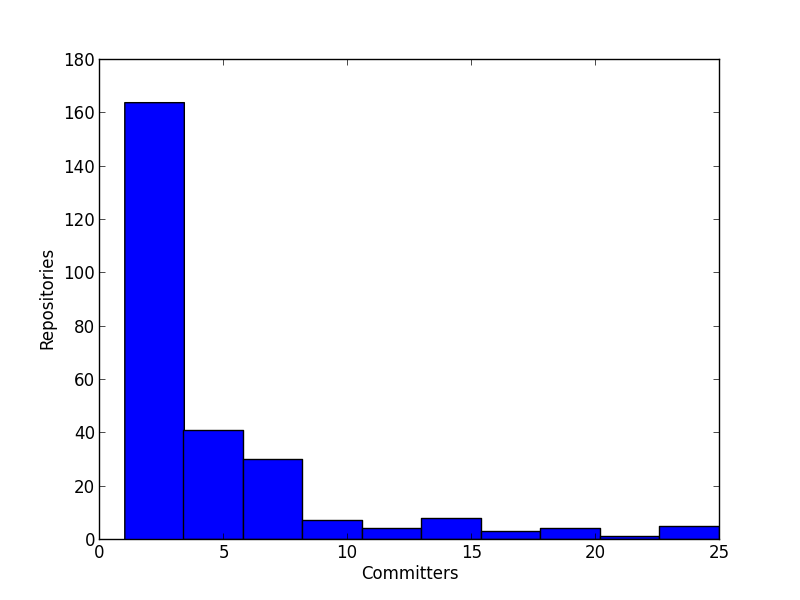
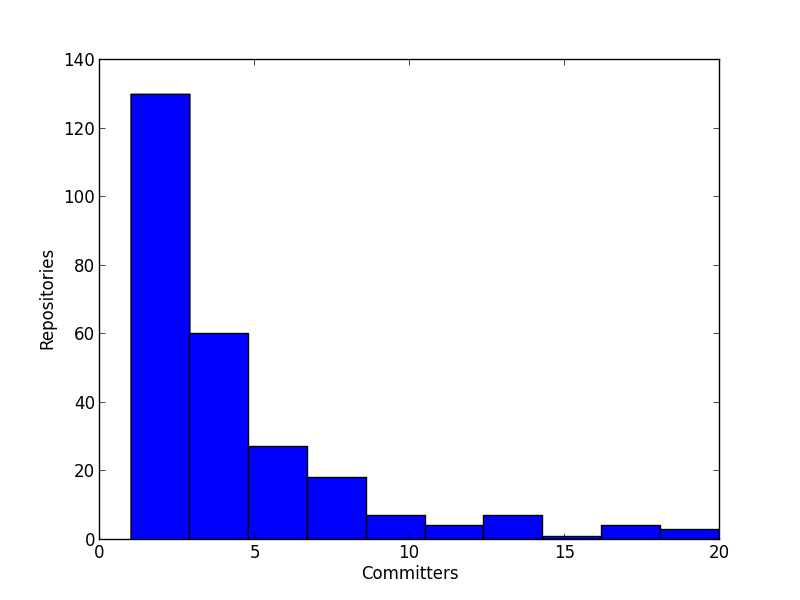
First run through proof-reading.

diff --git a/paper/main.tex b/paper/main.tex
@@ -7,6 +7,7 @@
 \usepackage{caption}
 \usepackage{url}
 \usepackage{amsmath}
+\usepackage{mathrsfs}
 %\setlength{\parskip}{\baselineskip}
 %\setlength{\parindent}{0pt}
 
@@ -40,27 +41,33 @@ Open Source Software (OSS) has fundamentally changed how we view the Software De
 
 A case study of the Apache Server project\cite{mockus2000case} shows that a dedicated community can produce software that rivals or exceeds commercial offerings. This study showed that even in the unstructured context of OSS, certain structures, hierarchies, and codes of conduct emerge. Contrast the Apache Server project to a successful project on GitHub. Although the spirit and intent may be the same, the tool set is drastically different. The intent of this work is to explore how GitHub facilitates this process, and also how it may be causing it to evolve.
 
-GitHub\footnote{https://github.com/} is a popular code hosting website that uses Git Source Code Management (SCM)\footnote{http://git-scm.com/}. Along with hosting software repositories, GitHub incorporates social aspects of development. GitHub users have community-visible profiles, and user actions can be tracked and followed by other community actions. This type of social integration of a user's identity and actions is unique to GitHub\cite{dabbish2012social}. 
+GitHub\footnote{https://github.com/} is a popular code hosting website that uses Git Source Code Management (SCM).\footnote{http://git-scm.com/} Along with hosting software repositories, GitHub incorporates social aspects of development. GitHub users have community-visible profiles, and user actions can be tracked and followed by other community actions. This type of social integration of a user's identity and actions is unique to GitHub\cite{dabbish2012social}. 
 
 Git itself, the SCM of GitHub, lends itself to the collaborative nature of GitHub by allowing for development to take place in a more distributed manner than previously available in other SCM systems\cite{spinellis2012git}.
-Git also allows for a variety of work flows\cite{chacon2009pro}. These workflows may be tailored to the individual needs of a project. The Linux Kernel, for example, uses a Dictator and Lieutenants Workflow\cite{platschekfloss}, which is hierarchical in nature. Other work flows may be more distributed, or resemble more traditional centralized SCM systems. Although work flow techniques aren't explicitly addressed in this work, it is important to note that work flow change may contribute to \textit{process change}.
+Git also allows for a variety of work flows\cite{chacon2009pro}. These work flows may be tailored to the individual needs of a project. The Linux Kernel, for example, uses a Dictator and Lieutenants Workflow\cite{platschekfloss}, which is hierarchical in nature. Other work flows may be more distributed, or resemble more traditional centralized SCM systems. Although work flow techniques aren't explicitly addressed in this work, it is important to note that work flow change may contribute to \textit{process change}.
 
 To better understand quantitatively the GitHub process, three hypotheses are introduced. The goal of these hypotheses is to bridge the gap between the more qualitative research of GitHub\cite{dabbish2012social,begel2013social} and the statistical analysis of data from a random sampling of GitHub projects.
 
-In addition, three supporting research questions are proposed. These questions will draw upon data from this work, but also reference interviews with GitHub staff to better represent how GitHub may be changing how OSS development is conducted. These qualitative observations, paired with the more qualitative data analysis, allows for a broad description of the way that GitHub is changing the Software Engineering landscape for OSS.
+In addition, three supporting research questions are proposed. These questions will draw upon data from this work, but also reference several case studies to better represent how GitHub may be changing how OSS development is conducted. These qualitative observations, paired with the more qualitative data analysis, allows for a broad description of the way that GitHub is changing the Software Engineering landscape for OSS.
 
 \subsection{Hypotheses}
 The following hypotheses are presented in an effort to better understand the GitHub development process by analyzing data from actual GitHub projects. Each hypothesis will be backed by previous research in an attempt to show concrete ways in which the GitHub process may be changing the OSS development process. Where possible, results from previous research on the Apache Server[mockus2000case] is compared, as this work closely aligns with Hypothesis 2 and 3.\\
 
 \noindent \textbf{Hypothesis 1: As the number of Watchers increase, the number of Repository Forks will increase.}\\
-In Open Source Software, a feeling of community belonging can be intrinsically motivating to developers\cite{lakhani2003hackers}. This feeling of belonging can be expressed passively, as a \emph{watch}, or actively, as a \emph{fork} of a repository. As \emph{watches} don't necessarily signal intent to contribute, a positive direction for an OSS project is to not only increase the number of \emph{watchers}, but also the number of \emph{forks}. As both signify a general general interest in the project, it is expected that there be some correlation between the two.\\
+In Open Source Software, a feeling of community belonging can be intrinsically motivating to developers\cite{lakhani2003hackers}. This feeling of belonging can be expressed passively, as a \emph{watch}, or actively, as a \emph{fork} of a repository. 
+
+In GitHub, a \emph{watch} is a user act of subscribing to changes in a repository. It is also referred to as a \emph{star}. A \emph{watch} allows users to receive status updates, such as when code has been committed. This is considered a \emph{passive} act, as it signifies involvement in the community, but no direct action to contribute.
+
+A \emph{fork} is the creation of a personal copy of a repository\cite{dabbish2012social}, from which they can change without impacting the original code source. A \emph{fork} is an \emph{active} action, as it signifies both involvement and intent to contribute. It should be noted, however, that it only signifies \emph{intent} -- a fork of a repository could be made and no other actions taken.
+
+As \emph{watches} don't necessarily signal intent to contribute, a positive direction for an OSS project is to not only increase the number of \emph{watchers}, but also the number of \emph{forks}. As both signify a general general interest in the project, it is expected that there be some correlation between the two.\\
 
 \noindent \textbf{Hypothesis 2: As the number Repository Forks increase, the Issue Resolution Time will decrease.}\\
 In OSS, a project \emph{fork} has at times carried negative connotations, and has even been referred to as a hazzard\cite{kogut2001open}. In the context of Git and GitHub, however, a \emph{fork} is a positive occurrence for a project, as it signifies greater project involvement. As Git allows for easy merging of \emph{forks}, code contributions in the form of defect fixes can be incorporated quickly. Because of this, it is expected that \emph{Issue Resolution Time} will decrease as the number of \emph{forks} increases.
 
-The Apache Project noted that a rapid response to problems can be obtained because OSS is not bound to release schedules in the same way commercial software is. ``Patches'' may be released at any time, by any member of the community\cite{mockus2000case}. ``Patches'' in the context of GitHub could be equated to Pull Requests.
+The Apache Project noted that a rapid response to problems can be obtained because OSS is not bound to release schedules in the same way commercial software is. ``Patches'' may be released at any time, by any member of the community\cite{mockus2000case}. ``Patches'' in the context of GitHub could be equated to \emph{Pull Requests}. A \emph{Pull Requests} is an announcement by a \emph{fork} that there are changes that may be appropriate to add back to the main repository. The owners of the main repository may then audit these requests, and \emph{pull} some or all of them back into the main repository.
 
-This is, ultimately, a proof of ``Linus Law"\cite{raymond1999cathedral} in the context of GitHub. In other words, the more exposure the code gets (in terms of forks), the easier bugs will be to find and fix.\\
+This hypothesis is, ultimately, an examination of ``Linus Law"\cite{raymond1999cathedral} in the context of GitHub. In other words, the more exposure the code gets (in terms of forks), the easier bugs will be to find and fix.\\
 
 \noindent \textbf{Hypothesis 3: There will be more Issue Reporters than Committers by an order of magnitude}\\
 Research into the Apache Server project observed that there were far more \emph{Issue Reporters} than there were code \emph{Committers}\cite{mockus2000case}. The Apache Server project is an excellent case study in this type of Developer Hierarchy. Apache is built around a small set of {\it Core Developers}, followed by {\it Defect Repairers} and {\it Defect Reporters}. Each level of this hierarchy brings with it an order of magnitude increase in number of participants. The 10-15 {\it Core Developers} contribute around 80\% of the new functionality, while the rest of the 400 code contributors focus primarily on bug fixes. The {\it Defect Reporters} were by far the largest group, with over 3000 individuals submitting bug reports.
@@ -68,35 +75,38 @@ Research into the Apache Server project observed that there were far more \emph{
 Because issue reporting is of low risk to the code base, but has potentially high value, it is a perfect way for large numbers of people to contribute. It is expected that the findings of the Apache Server project research will hold true for GitHub projects as well.
 
 \subsection{Research Questions}
-To expand the analysis scope slightly, three qualitative research questions are posed. These, although backed by analyzed data where possible, are intended to show broader patterns, ideas, and motivations around the use of GitHub. Where possible, interviews\cite{begel2013social} where conducted to explore high level concepts and motivations.\\
+To expand the analysis scope slightly, three qualitative research questions are posed. These, although backed by analyzed data where possible, are intended to show broader patterns, ideas, and motivations around the use of GitHub. Where possible, interviews\cite{begel2013social} were conducted to explore high level concepts and motivations.\\
 
 \noindent \textbf{Research Question 1: Are GitHub projects primarily focused around a small set of core Committers?}\\
-A smal core of developers, however, seems to be a historical fact of OSS development\cite{mockus2000case,mockus2002two,krishnamurthy2002cave}. At the extreme of this, a study of projects on the software hosting site Sourceforge\footnote{http://sourceforge.net} found that a large percentage of OSS development is done by lone developers. Is a small core of developers intrinsic to OSS development, or have the social aspects of GitHub and the distributed nature of Git changes this?\\
+A small core of developers, however, seems to be a historical fact of OSS development\cite{mockus2000case,mockus2002two,krishnamurthy2002cave}. At the extreme of this, a study of projects on the software hosting site Sourceforge\footnote{http://sourceforge.net} found that a large percentage of OSS development is done by lone developers. Is a small core of developers intrinsic to OSS development, or have the social aspects of GitHub and the distributed nature of Git changes this?\\
 
 \noindent \textbf{Research Question 2: How is GitHub changing the OSS process?}\\
 The social aspects of GitHub are an important part of the experience\cite{dabbish2012social}. User interactions and social pressures can drive OSS development in interesting ways. Social aspects of OSS development have existed before GitHub, with mailing lists\cite{mockus2000case}, gift giving mechanisms\cite{bergquist2008power}, and other code hosting sites. What is GitHub doing to facilitate change on OSS development, and how does it see OSS development changing moving forward?\\
 
 \noindent \textbf{Research Question 3: Can GitHub be used for more that code artifacts?}\\
-The Object Management Group\textregistered\footnote{http://www.omg.org} computer industry consortium focused on technology standards. Potential standard submission teams must go through a vetting process\cite{kobryn1999uml} which allows industry representatives to provide feedback on the standard. Gathering and recording this feedback is a challenge, but GitHub's issue tracking system may be able to streamline the process.
+The Object Management Group\textsuperscript{\textregistered}\footnote{http://www.omg.org} computer industry consortium focused on technology standards. Potential standard submission teams must go through a vetting process\cite{kobryn1999uml} which allows industry representatives to provide feedback on the standard. Gathering and recording this feedback is a challenge, but GitHub's issue tracking system may be able to streamline the process. This just one example of how GitHub is being used for non-code artifacts. Are organizations exploring this type of work flow?
 
 \section{Methods}
 \subsection{Collection and Storage}
-Data collection was done using the GitHub REST API\footnote{http://developer.github.com/v3/}. A random selection of 1000 repositories was selected using Algorithm \ref{algo:data_collection_algo}.
+Data collection was done using the GitHub REST API.\footnote{http://developer.github.com/v3/} A random selection of 1000 repositories was selected using Algorithm \ref{algo:data_collection_algo}.
 
 \begin{algorithm}[H]
 \captionof{algorithm}{Data Collection Algorithm}\label{algo:data_collection_algo}
 \begin{algorithmic}[1]
 \While{$i < 1000$} 
 \State $i \gets i + 1$
-\State $word \gets random(word\_list)$
-\State $repos \gets git\_search(word)$
-\State $j \gets $%\Call{random}{0... \Call{size}{repos}}$
+\State $word \gets \textsc{random}(word\_list)$
+\State $repos \gets \textsc{github\_search}(word)$
+\State $j \gets \textsc{random}(repos)$
 \State $repo \gets repos_j$
-\State \Call{store}{repo}
+\If { $\textsc{isOrgRepo}(repo)$  }
+\State $\textsc{store}(repo)$
+\EndIf 
 \EndWhile
 \end{algorithmic}
 \end{algorithm}
 
+Repositories were gathered at random, but only repositories owned by an \textit{Organization} GitHub User type were considered. The \textsc{isOrgRepo} function will filter out all non \textit{Organization} owned repositories.
 The \textsc{store} function accepts as an input a given random repository. The purpose of this function is to persist the given repository to a database for further analysis. Results were stored in a MySQL relational database management system. The database schema to store the data is described in Figure \ref{fig:er_diagram}.
 
 \begin{figure}
@@ -109,19 +119,19 @@ Data was collected and analyzed using a Python\footnote{http://python.org/} scri
 
 Matplotlib\cite{Hunter2007}, a 2D graphics package for Python, was used to render graphs and charts. NumPy and SciPy\cite{scipy} were used for data analysis calculations, such as correlation coefficients.
 
-All source code and materials used in data collection and analysis are hosted at GitHub (naturally!), and may be accessed by the following URL: \url{https://github.com/kevinpeterson/github-process-research}
+All source code and materials used in data collection and analysis are hosted at GitHub (naturally!), and may be accessed by the following URL: \url{https://github.com/kevinpeterson/github-process-research}.
 
 \subsection{Analysis}
-In this context, a \textit{Repository} is defined as a Set of \textit{Attributes}. An \textit{Attribute} is a metric of interest. See Section \ref{sec:attributes} for further information on individual \textit{Attributes}. These metrics of interest are used as an Indexing Set $A^\prime$, and have labels as follows:
+As stated, the main focus of data collection was to gather metrics pertaining to GitHub \textit{Repositories}. In this context, a \textit{Repository} is defined as a Set of \textit{Attributes}. An \textit{Attribute} is a metric of interest. See Section \ref{sec:attributes} for further information on individual \textit{Attributes}. For analysis purposes, these metrics of interest are used as an Indexing Set $A^\prime$, and have labels as follows:
 
 \[A^\prime = \{i, c, i^\prime, i^{\prime\prime}, \Delta, \alpha, \beta\}\]
 
 Where $i$ = {\textit{Issues}, $c$ = {\textit{Commits}, $i^\prime$ = {\textit{Closed Issues}, $i^{\prime\prime}$ = {\textit{Open Issues}, $\Delta$ = {\textit{Issue Close Time}, $\alpha$ = {\textit{Issue Creators}, and $\beta$ = {\textit{Committers}.
 
-All analyzed \textit{Respositories} can be thought of as the Indexed Family of \textit{Attribute} Sets $A$, or a Set of Sets of \textit{Attributes}. Let the Set of these Sets of \textit{Attribute} Sets be called $S$, or the \textit{Repository Sample}. We can label the \textit{Attribute} Sets by arbitrary integers 0 through $|S|$, or:
+All analyzed \textit{Respositories} can be thought of as the Indexed Family of \textit{Attribute} Sets $A$, or a set of sets of \textit{Attributes}. Let the set of these sets of \textit{Attributes} be called $S$, or the \textit{Repository Sample}. We can label the \textit{Attribute} sets by arbitrary integers 0 through $|S|$, or:
 \[ \{A_i\}_{i \in \{0,1,2 ... |S|\} }\]
 
-In this way, we can reference a Set of \textit{Attributes} (or, an individual \textit{Repository}), by $A_i$. 
+In this way, we can reference a set of \textit{Attributes} (or, an individual \textit{Repository}), by $A_i$. 
 
 Going further, we can also denote an individual \textit{Attribute} of a given \textit{Repository} by:
 \[ \{A_{(i,r)}\}_{(i,r) \in A^\prime \times \{0,1,2 ... |S|\} } \]
@@ -133,12 +143,12 @@ each individual attribute is processed via $g(j)$ and will result in the average
 
 \subsubsection{Attributes}
 \label{sec:attributes}
-The individual \textit{Attribute} names, or the elements of $A^\prime$, are described below. For detailed summary statistics of these \textit{Attributes}, see Figure  \ref{table:summary_stats}.\\\\
+The individual \textit{Attribute} names, or the elements of $A^\prime$, are described below. For detailed summary statistics of these \textit{Attributes}, see Figure \ref{table:summary_stats}.\\\\
 \noindent \textbf{\textit{Issues:}}
 The number of issues posted to a repository's issue tracker\footnote{https://github.com/blog/411-github-issue-tracker}.
 
 \noindent \textbf{\textit{Commits:}}
-The number of individual source code commits to a repository. It is important to note that a textit{commit} is a single transaction that changes the code contents of a repository. Actual commit ``size'' (lines of code modified, for example), is not taken into account.
+The number of individual source code commits to a repository. It is important to note that a \textit{commit} is a single transaction that changes the code contents of a repository. Actual commit ``size'' (lines of code modified, for example) is not taken into account.
 
 \noindent \textbf{\textit{Closed Issues:}}
 The number of issues in a repository in a state of \textsc{closed} at the time of processing.
@@ -200,7 +210,7 @@ A correlation coefficient of \input{watcher_forks_scatterplot-correlation}}\unsk
 The data reinforces the hypothesis, as does other research in the area. Even though there are arguments that the number of Forks is the true measure of project success\cite{baudry2012towards}, the data suggests that the two measures are related. Also, \textit{Dabbish et al.} have noted that the number of Watches can be a key for others to gauge interest in a project, and thus determine if they should participate \cite{dabbish2013leveraging}. If the number of Watchers of a repository serves as a social cue for participation, even ``passive'' involvement with a project (Watching) could influence the ``active'' participation (Forking). This could possibly contribute to the correlation of the two variables.\\
 
 \noindent \textbf{Hypothesis 2: As the number Repository Forks increase, the Issue Resolution Time will decrease.}\\
-No significant correlation was found between the number of repository forks and issue resolution time. It is important to note, however, that issue resolution time is not necessarily related to software product quality in the context of GitHub. We can assert that for serveral reasons. \textit{First}, GitHub issues are not necessarily product defects. Issues may be feature requests. TODOs, or general support questions. \textit{second}, GitHub projects may have primary issue tracking services elsewhere, while using the GitHub issues as secondary services or not at all. \textit{Third}, Pham \textit{et al.} explore an emerging ``testing culture'' in GitHub -- something which could have sizable impacts on software quality but wouldn't necessarily be reflected in this metric \cite{phamcreating}.
+No significant correlation was found between the number of repository forks and issue resolution time. It is important to note, however, that issue resolution time is not necessarily related to software product quality in the context of GitHub. We can assert that for several reasons. \textit{First}, GitHub issues are not necessarily product defects. Issues may be feature requests, comments, or general support questions. \textit{Second}, GitHub projects may have primary issue tracking services elsewhere, while using the GitHub issues as secondary services or not at all. \textit{Third}, Pham \textit{et al.} explore an emerging ``testing culture'' in GitHub -- something which could have sizable impacts on software quality but wouldn't necessarily be reflected in this metric\cite{phamcreating}.
 
 \begin{figure}
 \includegraphics[height=3in,width=3in]{images/issue_close_time_forks_scatterplot.png}
@@ -220,29 +230,31 @@ As shown in Figure\ref{fig:issue_reporters_committers_scatterplot}, the slope of
 \label{fig:issue_reporters_committers_scatterplot}
 \end{figure}
 
-Figure\ref{fig:issue_reporters_committers_scatterplot}, does however suggest, however, that that the two variables may be related. The hypothesis implies that there will be a correlation between the two variables -- which is demonstrated by a reasonably strong correlation cofficient of \input{issue_reporters_committers_scatterplot-correlation}}\unskip. More investigation would be necessary to further examine this finding.\\
+Figure\ref{fig:issue_reporters_committers_scatterplot}, does however suggest, however, that that the two variables may be related. The hypothesis implies that there will be a correlation between the two variables -- which is demonstrated by a reasonably strong correlation coefficient of \input{issue_reporters_committers_scatterplot-correlation}}\unskip. More investigation would be necessary to further examine this finding.\\
 
 \subsection{Research Questions}
 \noindent \textbf{Research Question 1: Are GitHub projects primarily focused around a small set of core Committers?}\\
-The data in figure \ref{fig:committers_percentage_pie_chart} represents commit percentage breakdown. The inner percentages represent the percentage of committers in a project that that have committed the outer percentage amount of commits to that project, or:
+The data in Figure \ref{fig:committers_percentage_pie_chart} represents commit percentage breakdown. The intent of this measurement is to show how the number of repository commits are distributed among it's committers. The slices represent the distribution of committers that that have committed the outer percentage amount of commits to a project, or:
 
 \begin{equation}
-P = \left\{ \frac{ C_u } { |C| } \times 100 \Big| u \in U \right\}
+P = \left\{ \frac{ C_u } { |\mathscr{C}| } \times 100 \Big| u \in U \right\}
 \label{eq:commit_percentage}
 \end{equation}
 
-Where $U$ is the Set of \textit{Committers} to a given \textit{Repository} and $C$ is the MultiSet of \textit{Commits} by an individual \textit{Committers} to a given \textit{Repository}, or:
+Where $U$ is the Set of \textit{Committers} to a given \textit{Repository}, $\mathscr{C}$ is the set of all \textit{Commits} to a \textit{Repository}, and $C_u$ denotes sets of \textit{Commits} by an individual \textit{Committers} to a \textit{Repository}, or:
  \[ \{ C_u \}_{u \in U} \]
+
+Each \textit{Committers}, then, will produce a subset of all \textit{Commits} to a a \textit{Repository}, or $C_u \subset \mathscr{C}$. 
 
 \begin{figure}
 \includegraphics[height=3in,width=3in]{images/committers_percentage_pie_chart.png}
-\caption{Individual committer commit percentage per repository}
+\caption{Distribution of individual committer commit percentage of a repository}
 \label{fig:committers_percentage_pie_chart}
 \end{figure}
 
-To find the percentages Set $P$ of equation\ref{eq:commit_percentage}, the commits by each user $C_u$ are divided by the total number of commits $|C|$, yielding the set of contribution percentages $P$ for the repository. Elements of $P$ are then assigned to ranges $0-5\%$, $5-10\%$, $10-50\%$, $50-95\%$, and $95-100\%$ (with shared values inclusive to the larger range). The distribution of this range assignments is plotted on Figure \ref{fig:committers_percentage_pie_chart}.
+To find the percentages Set $P$ of Equation\ref{eq:commit_percentage}, the commits by each user $C_u$ are divided by the total number of commits $|\mathscr{C}|$, yielding the set of contribution percentages $P$ for the repository. Elements of $P$ are then assigned to ranges $0-5\%$, $5-10\%$, $10-50\%$, $50-95\%$, and $95-100\%$ (with shared values inclusive to the larger range). The distribution of this range assignments is plotted on Figure \ref{fig:committers_percentage_pie_chart}.
 
-There does appear to be evidence of a small set of core developers, denoted by the relatively high percentage of developers that have authored $95-100\%$ of the commits of a given repository. Most notably, however, is that the data shows that by a large percentage of developers committed small amounts ($0-5\%$ of the total repository commits). This means that a small core are not entirely monopolizing the commits, but rather opportunity exists for users to contribute, even if in small ways.
+Most notably, the data shows that a large percentage of developers committed small amounts ($0-5\%$ of the total repository commit). This means that a small core are not entirely monopolizing the commits, but rather opportunity exists for users to contribute, even if in small ways. Instances of developer monopolization of commits to a repository (for example, where a developer contributes $95-100\%$ of the total commits), are shown to be small.
 
 \begin{figure}
 \includegraphics[height=3in,width=3in]{images/committers_histogram.png}
@@ -250,27 +262,36 @@ There does appear to be evidence of a small set of core developers, denoted by t
 \label{fig:committers_histogram}
 \end{figure}
 
-When looking strictly at the number of committers to a repository, however, the notion of a small set of core Committers is strongly supported, as the vast majority of repositories have fewer than 10 committers (figure \ref{fig:committers_histogram}).\\
+When looking strictly at the number of committers to a repository, however, the notion of a small set of core committers is strongly supported, as the vast majority of repositories have fewer than 10 committers (Figure \ref{fig:committers_histogram}).\\
 
-\textbf{Research Question 2: How is GitHub changing the OSS process?}\\
-Thung \textit{et al.} show that the social coding aspects of GitHub -- specifically the developer-to-developer connectivity -- enable high collaboration rates.\cite{thung2013network} In fact, the developer connectivity was shown to be higher than SourceForge and even Facebook. In a recent interview with GitHub staff, the social aspects of GitHub are referred to as ``unique and powerful\cite{begel2013social},'' which seems to suggest that this is a strong underlying product goal for.
+\noindent \textbf{Research Question 2: How is GitHub changing the OSS process?}\\
+Thung \textit{et al.} show that the social coding aspects of GitHub -- specifically the developer-to-developer connectivity -- enable high collaboration rates.\cite{thung2013network} In fact, the developer connectivity was shown to be higher than SourceForge and even Facebook. In a recent interview with GitHub staff, the social aspects of GitHub are referred to as ``unique and powerful\cite{begel2013social},'' which seems to suggest that this is a strong underlying product goal.
 
-Ye also observed\cite{ye2003toward} that the contribution environment, or ``society,'' is important in providing a framework for develper trust building:
+Ye also observed\cite{ye2003toward} that the contribution environment, or ``society,'' is important in providing a framework for developer trust building:
 \begin{quote}
 Only in a society where technical supremacy is highly appreciated can developers acquire good reputations among their peers by displaying their skills through free distribution, and often wider acceptance, of their systems.The good reputation attracts attention, trust, and cooperation from others and lays the foundation for advancing the original developers agenda and the establishment and development of OSS communities. 
 \end{quote}
 
+With this process change can also come cause for concern. The move to Git from a centralized version control system (such as SVN or CVS) is not without its challenges. Differences in philosophy and nomenclature may place added strain on developers\cite{bird2009promises}. Also, it is not to be assumed that process change is always welcome\cite{de2009software}, even if it is an improvement. Developers and organizations have existing processes, SCM tools, and workflow patterns -- which all change at a cost.
+
+Despite the potential migration cost, the National Center for Biomedical Ontology,\footnote{https://github.com/ncbo}, the National Cancer Informatics Program\footnote{https://github.com/ncip}, NASA\footnote{https://github.com/nasa}, and the WhiteHouse\footnote{https://github.com/WhiteHouse} are just some organizations that have moved all or portions of development to GitHub. As these and other organizations consider the move to GitHub, the distributed and ``social'' aspects of the OSS process will move continue to evolve.\\
+
 \noindent \textbf{Research Question 3: Can GitHub be used for more that code artifacts?}\\
-The OMG\textregistered standardization process is a process by which products strive to produce an interoperability statndard by way of an industry standards consortium.\cite{omgTechProcess}
+The OMG\textsuperscript{\textregistered} standardization process is a process by which products strive to produce an interoperability standard by way of an industry standards consortium.\cite{omgTechProcess}
 The standardization process itself aims to, at its conclusion, produce a set of model artifacts containing sufficient detail such that when interpreted and implemented, produce interoperable software.
-At a conceptual level, this can be thought of as a software requirements engineering process as much as a standardization process. If so,  of the five main tasks of requirements engineering, Elicitation, Analysis and Negotiation, Documentation, Validation, and Management,\cite{sommerville1998requirements} we can show that GitHub is an appropriate forum for many of them.
+At a conceptual level, this can be thought of as a software requirements engineering process as much as a standardization process. If so, of the five main tasks of requirements engineering, Elicitation, Analysis and Negotiation, Documentation, Validation, and Management,\cite{sommerville1998requirements} we can show that GitHub is an appropriate forum for many of them.
 
-As a case study, the CTS2 OMG\textregistered Specification\cite{cts2} used a GitHub issue tracker\footnote{https://github.com/cts2/cts2-specification/issues} to track specification changes. Elicitation, Analysis and Negotiation were natural fits for the issue tracker. This was chosen in part because the barrier to participation was very small (only a GitHub account was needed), and issues tracker itself allowed for dialogs in the form of comments. Because customer involvement is critical to these activities\cite{paetsch2003requirements}, ease of contribution was a main concern. OMG has a predescribed format for requirements Documentation, but using the GitHub issue API\footnote{http://developer.github.com/v3/issues/}, much of this documentation can be automated.
-Validation and Management are areas of requirements engineering that GitHub has interesting solutions for. First, in order to track (or validate) changes to the specification, when the actual specification is modified, the commit that modified it can be traced to a named issue by simply putting the issue number in the commit log. This level of traceability is powerful, as it allows every change to the specification artifacts to be tracked consistently to an open issue. As the normal OMG process proceeds, requirements can be managed through ``tagging'' the issues. By allowing issues to be grouped by arbitrary tags, users are more free to adapt their own workflow. For instance, when community voting on issues needed to be done for CTS2, a simple ``ready for vote'' tag signified to the voting board exactly what was under consideration
+As a case study, the CTS2 OMG\textsuperscript{\textregistered} Specification\cite{cts2} used a GitHub issue tracker\footnote{https://github.com/cts2/cts2-specification/issues} to track specification changes. Elicitation, Analysis and Negotiation were natural fits for the issue tracker. This was chosen in part because the barrier to participation was very small (only a GitHub account was needed), and issues tracker itself allowed for dialogs in the form of comments. Because customer involvement is critical to these activities\cite{paetsch2003requirements}, ease of contribution was a main concern. OMG\textsuperscript{\textregistered} has a predescribed format for requirements Documentation, but using the GitHub issue API\footnote{http://developer.github.com/v3/issues/}, much of this documentation can be automated.
+Validation and Management are areas of requirements engineering that GitHub has interesting solutions for. First, in order to track (or validate) changes to the specification, when the actual specification is modified, the commit that modified it can be traced to a named issue by simply putting the issue number in the commit log. This level of traceability is powerful, as it allows every change to the specification artifacts to be tracked consistently to an open issue. As the normal OMG\textsuperscript{\textregistered} process proceeds, requirements can be managed through ``tagging'' the issues. By allowing issues to be grouped by arbitrary tags, users are more free to adapt their own work flow. For instance, when community voting on issues needed to be done for CTS2, a simple ``ready for vote'' tag signified to the voting board exactly what was under consideration
 
-As mentioned, the CTS2 specification made heavy use of the GitHub issue tracker, as well as another OMG specification, ServD.\footnote{https://github.com/servd/servd-specification} For open source specifications, or requirements engineering activities, GitHub has shown to be a viable platform. 
+As mentioned, the CTS2 specification made heavy use of the GitHub issue tracker, as well as another OMG\textsuperscript{\textregistered} specification, ServD.\footnote{https://github.com/servd/servd-specification} For open source specifications, or requirements engineering activities, GitHub has shown to be a viable platform. 
 
 \section{Conclusion}
+The data suggests an evolution in process, but not necessarily a large shift. A small subset of core developers, a traditional aspect of OSS development\cite{mockus2000case,mockus2002two,krishnamurthy2002cave}, seems supported by both the summary data in Figure \ref{eq:variance}, and the distribution of committers per repository in Figure \ref{fig:committers_histogram}. Figure \ref{fig:committers_percentage_pie_chart} shows that a significant number of participation, albeit small, in many repositories. This may indicate a lowered entry barrier for participation.
+
+The data summary variance statement in Assertion: \ref{eq:variance} is important, as it suggests large amounts of variety in the observed variables. This may suggest that not all repositories on GitHub are intended to be consumable software artifacts for users, or ``consumers.'' A large number of repositories may not be intended for customer consumption, but merely as example code, experimentation, or exercises. More research into categorizing GitHub repositories is needed. This is one reason why only repositories owned by a GitHub \textit{Organization} were analyzed, as it was anticipated that this would yield a better sample of repositories for analysis.
+
+The non-code artifacts in GitHub may fall outside of the domain of software development, but it is a significant aspect of our findings. From government documents to software specifications, GitHub is being used and used successfully. More research is needed into what role GitHub will play in the work flow of these artifacts, and whether it will influence their traditional work flow, as it has for software development.
 
 \section{Acknowledgments}
 We thank Gilberto Fragoso, Ph.D. and Paul Alexander for insight and ideas, Harold Solbrig, Craig Stancl, and Dick Hedger for guidance, and Rick Kiefer for his review.

diff --git a/code/plots.py b/code/plots.py
@@ -1,7 +1,7 @@
 from plotter import Histograph, ScatterPlot, PieChart
 
 committers_query = '''select count(distinct committer) from commit c group by repository_id'''
-committers_histogram = Histograph(committers_query, "Committers", "Repositories", (1,25))
+committers_histogram = Histograph(committers_query, "Committers", "Repositories", (1,20))
 committers_histogram.plot("committers_histogram")
 
 committers_percentage_query = '''
@@ -34,7 +34,7 @@ issue_close_time_histogram.plot("issue_close_time_histogram")
 
 watcher_forks_scatterplot_query = '''select watchers, forks from repository'''
 watcher_forks_scatterplot = ScatterPlot(watcher_forks_scatterplot_query, "Watchers", "Forks", (0,1000), (0,150))
-print watcher_forks_scatterplot.plot("watcher_forks_scatterplot")
+watcher_forks_scatterplot.plot("watcher_forks_scatterplot")
 
 issue_reporters_committers_query = '''
 select 
@@ -53,7 +53,7 @@ from
     group by repository_id) issues ON issues.repository_id = commits.repository_id
 '''
 issue_reporters_committers_scatterplot = ScatterPlot(issue_reporters_committers_query, "Committers", "Issue Reoprters", (0,140), (0,140))
-print issue_reporters_committers_scatterplot.plot("issue_reporters_committers_scatterplot")
+issue_reporters_committers_scatterplot.plot("issue_reporters_committers_scatterplot")
 
 issue_close_time_forks_query = '''
 select 
@@ -72,7 +72,7 @@ from
 group by repository_id
 '''
 issue_close_time_forks_scatterplot = ScatterPlot(issue_close_time_forks_query, "Close Time", "Forks", (0,200), (0,200))
-print issue_close_time_forks_scatterplot.plot("issue_close_time_forks_scatterplot")
+issue_close_time_forks_scatterplot.plot("issue_close_time_forks_scatterplot")
 
 committers_percentage_pie_chart = PieChart(committers_percentage_query)
 committers_percentage_pie_chart.plot("committers_percentage_pie_chart")

diff --git a/code/plotter.py b/code/plotter.py
@@ -34,7 +34,10 @@ class PieChart:
 				ranges['95-100'] += 1
 
 		fig = plt.figure()
-		plt.pie(ranges.values(), labels=[key + "%" for key in ranges.keys()], autopct='%.2f%%', shadow=True)
+
+		plt.pie(ranges.values(), labels=[key + "%" for key in ranges.keys()], autopct=None, shadow=True)
+
+		plt.legend(title="Contribution")
 
 		F = gcf()
 		F.savefig("../paper/images/"+filename+".png")
@@ -70,7 +73,9 @@ class ScatterPlot:
 
 		correlation_coefficient = "%.4f" % numpy.corrcoef(x,y)[0,1]
 		title('Correlation Coefficient: ' + correlation_coefficient)
-		plt.plot(x,y,'bo',x,m*numpy.array(x)+b,'-k',linewidth=2)
+
+		if float(correlation_coefficient) > 0.5:
+			plt.plot(x,y,'bo',x,m*numpy.array(x)+b,'-k',linewidth=2)
 
 		plt.xlabel(self.xlabel)
 		plt.ylabel(self.ylabel)
